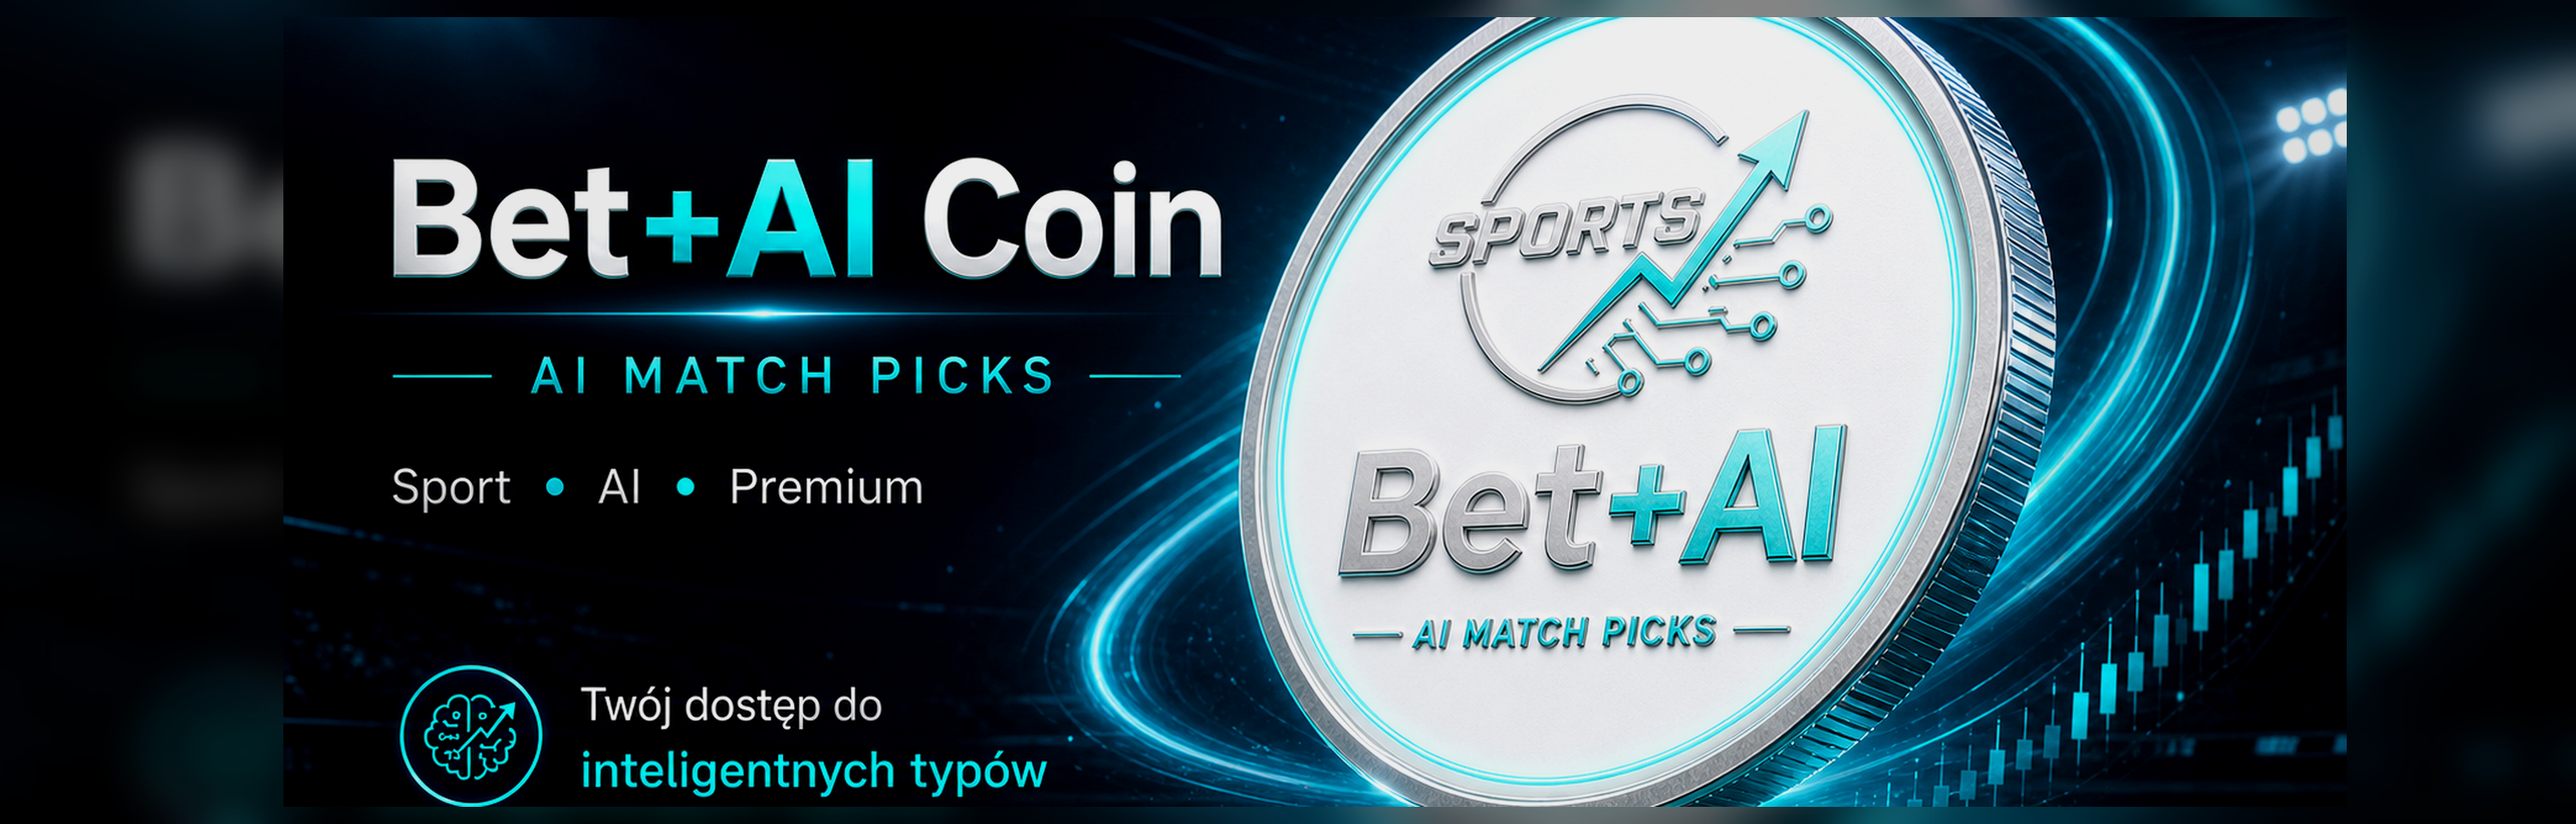
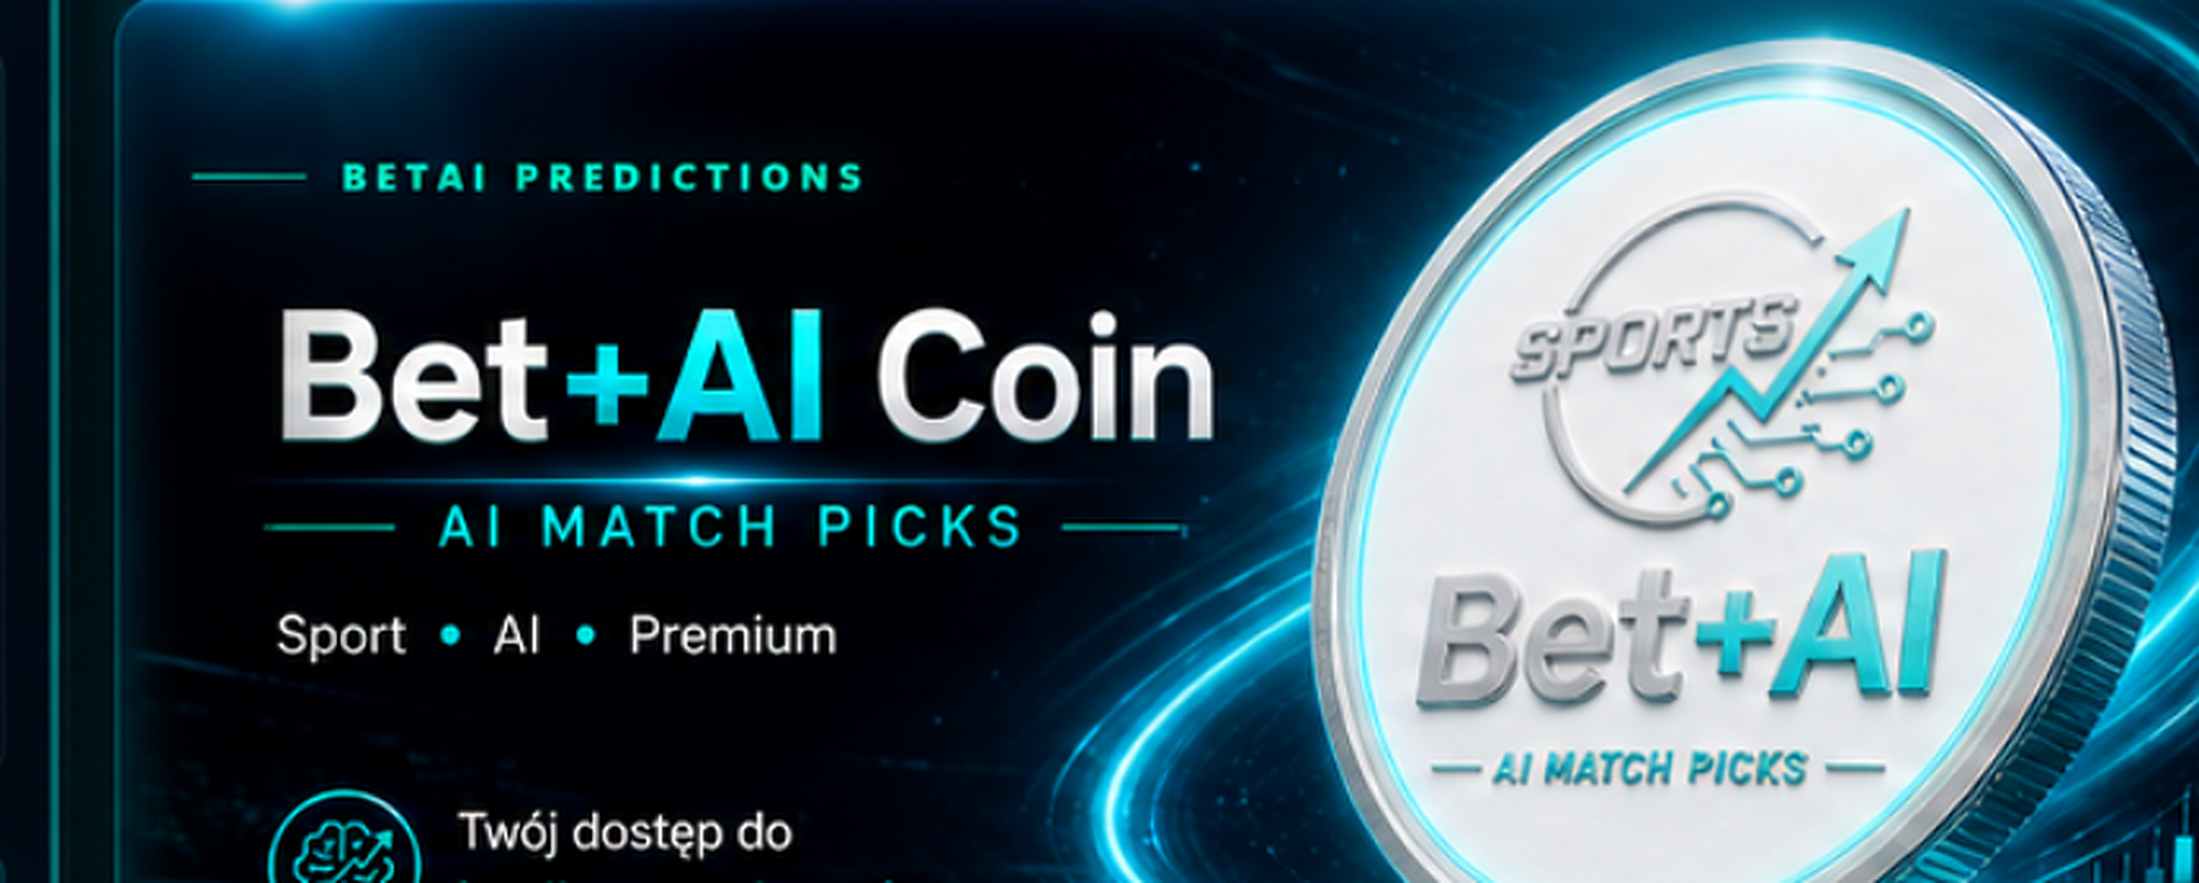
78

diff --git a/src/styles.css b/src/styles.css
@@ -9003,3 +9003,173 @@ html,body,#root{
   color: #10bce8 !important;
   font-weight: 900 !important;
 }
+
+
+/* WERSJA 411 — hero coin matches the user-approved screenshot exactly */
+@media (min-width: 1000px){
+  .betai-animated-hero.betai-hero-coin-active{
+    min-height: 334px !important;
+    padding: 18px 250px 18px 18px !important;
+  }
+
+  .betai-animated-hero.betai-hero-coin-active > .betai-hero-copy{
+    position:absolute !important;
+    left:18px !important;
+    top:18px !important;
+    right:250px !important;
+    bottom:18px !important;
+    width:auto !important;
+    max-width:none !important;
+    min-height:0 !important;
+    height:auto !important;
+    display:block !important;
+    z-index:3 !important;
+  }
+
+  .betai-animated-hero.betai-hero-coin-active .betai-hero-kicker{
+    display:none !important;
+  }
+
+  .betai-animated-hero.betai-hero-coin-active .betai-hero-rotator,
+  .betai-animated-hero.betai-hero-coin-active .betai-hero-panel.betai-hero-panel-coin,
+  .betai-animated-hero.betai-hero-coin-active .betai-hero-panel.betai-hero-panel-coin img{
+    position:absolute !important;
+    inset:0 !important;
+    width:100% !important;
+    height:100% !important;
+    min-height:0 !important;
+    max-height:none !important;
+    overflow:hidden !important;
+    border-radius:24px !important;
+  }
+
+  .betai-animated-hero.betai-hero-coin-active .betai-hero-panel.betai-hero-panel-coin img{
+    object-fit:cover !important;
+    object-position:left center !important;
+    border:0 !important;
+    box-shadow:0 18px 52px rgba(0,0,0,.30), inset 0 1px 0 rgba(255,255,255,.05) !important;
+    filter:brightness(1.01) saturate(1.02) !important;
+  }
+
+  .betai-animated-hero.betai-hero-coin-active > .betai-hero-stats{
+    position:absolute !important;
+    right:18px !important;
+    top:18px !important;
+    bottom:18px !important;
+    width:214px !important;
+    z-index:6 !important;
+  }
+}
+
+@media (min-width: 1000px) and (max-width:1180px){
+  .betai-animated-hero.betai-hero-coin-active{
+    padding-right:226px !important;
+  }
+  .betai-animated-hero.betai-hero-coin-active > .betai-hero-copy{
+    right:226px !important;
+  }
+  .betai-animated-hero.betai-hero-coin-active > .betai-hero-stats{
+    width:196px !important;
+  }
+}
+
+/* top middle wallet / tokens button blue like Wyloguj */
+.topbar .wallet-top-btn.wallet-stack-top,
+.wallet-top-btn.wallet-stack-top{
+  background:linear-gradient(135deg,#18f0c8,#10bce8) !important;
+  border:1px solid rgba(24,240,200,.32) !important;
+  color:#04121a !important;
+  box-shadow:0 10px 22px rgba(20,224,201,.20) !important;
+}
+.topbar .wallet-top-btn.wallet-stack-top strong,
+.topbar .wallet-top-btn.wallet-stack-top small,
+.wallet-top-btn.wallet-stack-top strong,
+.wallet-top-btn.wallet-stack-top small{
+  color:#04121a !important;
+}
+.wallet-row.wallet-row-tokens span,
+.wallet-row.wallet-row-tokens b{
+  color:#10bce8 !important;
+  font-weight:900 !important;
+}
+
+
+/* WERSJA 412 — final hero coin based on user-approved screenshot */
+@media (min-width: 1000px){
+  .betai-animated-hero.betai-hero-coin-active{
+    min-height: 334px !important;
+    padding: 18px 250px 18px 18px !important;
+  }
+  .betai-animated-hero.betai-hero-coin-active > .betai-hero-copy{
+    position: absolute !important;
+    left: 18px !important;
+    top: 18px !important;
+    right: 250px !important;
+    bottom: 18px !important;
+    width: auto !important;
+    max-width: none !important;
+    min-height: 0 !important;
+    height: auto !important;
+    z-index: 3 !important;
+  }
+  .betai-animated-hero.betai-hero-coin-active .betai-hero-kicker{
+    display: none !important;
+  }
+  .betai-animated-hero.betai-hero-coin-active .betai-hero-rotator,
+  .betai-animated-hero.betai-hero-coin-active .betai-hero-panel.betai-hero-panel-coin,
+  .betai-animated-hero.betai-hero-coin-active .betai-hero-panel.betai-hero-panel-coin img{
+    position: absolute !important;
+    inset: 0 !important;
+    width: 100% !important;
+    height: 100% !important;
+    min-height: 0 !important;
+    max-height: none !important;
+    border-radius: 24px !important;
+    overflow: hidden !important;
+  }
+  .betai-animated-hero.betai-hero-coin-active .betai-hero-panel.betai-hero-panel-coin img{
+    object-fit: cover !important;
+    object-position: left center !important;
+    border: 0 !important;
+    box-shadow: 0 18px 50px rgba(0,0,0,.30), inset 0 1px 0 rgba(255,255,255,.05) !important;
+    filter: brightness(1.01) saturate(1.02) !important;
+  }
+  .betai-animated-hero.betai-hero-coin-active > .betai-hero-stats{
+    position: absolute !important;
+    right: 18px !important;
+    top: 18px !important;
+    bottom: 18px !important;
+    width: 214px !important;
+    z-index: 6 !important;
+  }
+}
+@media (min-width: 1000px) and (max-width: 1180px){
+  .betai-animated-hero.betai-hero-coin-active{
+    padding-right: 226px !important;
+  }
+  .betai-animated-hero.betai-hero-coin-active > .betai-hero-copy{
+    right: 226px !important;
+  }
+  .betai-animated-hero.betai-hero-coin-active > .betai-hero-stats{
+    width: 196px !important;
+  }
+}
+/* top wallet button blue like Wyloguj */
+.topbar .wallet-top-btn.wallet-stack-top,
+.wallet-top-btn.wallet-stack-top{
+  background: linear-gradient(135deg,#18f0c8,#10bce8) !important;
+  border: 1px solid rgba(24,240,200,.32) !important;
+  color: #04121a !important;
+  box-shadow: 0 10px 22px rgba(20,224,201,.20) !important;
+}
+.topbar .wallet-top-btn.wallet-stack-top strong,
+.topbar .wallet-top-btn.wallet-stack-top small,
+.wallet-top-btn.wallet-stack-top strong,
+.wallet-top-btn.wallet-stack-top small{
+  color: #04121a !important;
+}
+.wallet-row.wallet-row-tokens span,
+.wallet-row.wallet-row-tokens b{
+  color: #10bce8 !important;
+  font-weight: 900 !important;
+}

diff --git a/dist/assets/index-Ck5lrAOd.css b/dist/assets/index-Ck5lrAOd.css
@@ -121,3 +121,173 @@
   color: #10bce8 !important;
   font-weight: 900 !important;
 }
+
+
+/* WERSJA 411 — hero coin matches the user-approved screenshot exactly */
+@media (min-width: 1000px){
+  .betai-animated-hero.betai-hero-coin-active{
+    min-height: 334px !important;
+    padding: 18px 250px 18px 18px !important;
+  }
+
+  .betai-animated-hero.betai-hero-coin-active > .betai-hero-copy{
+    position:absolute !important;
+    left:18px !important;
+    top:18px !important;
+    right:250px !important;
+    bottom:18px !important;
+    width:auto !important;
+    max-width:none !important;
+    min-height:0 !important;
+    height:auto !important;
+    display:block !important;
+    z-index:3 !important;
+  }
+
+  .betai-animated-hero.betai-hero-coin-active .betai-hero-kicker{
+    display:none !important;
+  }
+
+  .betai-animated-hero.betai-hero-coin-active .betai-hero-rotator,
+  .betai-animated-hero.betai-hero-coin-active .betai-hero-panel.betai-hero-panel-coin,
+  .betai-animated-hero.betai-hero-coin-active .betai-hero-panel.betai-hero-panel-coin img{
+    position:absolute !important;
+    inset:0 !important;
+    width:100% !important;
+    height:100% !important;
+    min-height:0 !important;
+    max-height:none !important;
+    overflow:hidden !important;
+    border-radius:24px !important;
+  }
+
+  .betai-animated-hero.betai-hero-coin-active .betai-hero-panel.betai-hero-panel-coin img{
+    object-fit:cover !important;
+    object-position:left center !important;
+    border:0 !important;
+    box-shadow:0 18px 52px rgba(0,0,0,.30), inset 0 1px 0 rgba(255,255,255,.05) !important;
+    filter:brightness(1.01) saturate(1.02) !important;
+  }
+
+  .betai-animated-hero.betai-hero-coin-active > .betai-hero-stats{
+    position:absolute !important;
+    right:18px !important;
+    top:18px !important;
+    bottom:18px !important;
+    width:214px !important;
+    z-index:6 !important;
+  }
+}
+
+@media (min-width: 1000px) and (max-width:1180px){
+  .betai-animated-hero.betai-hero-coin-active{
+    padding-right:226px !important;
+  }
+  .betai-animated-hero.betai-hero-coin-active > .betai-hero-copy{
+    right:226px !important;
+  }
+  .betai-animated-hero.betai-hero-coin-active > .betai-hero-stats{
+    width:196px !important;
+  }
+}
+
+/* top middle wallet / tokens button blue like Wyloguj */
+.topbar .wallet-top-btn.wallet-stack-top,
+.wallet-top-btn.wallet-stack-top{
+  background:linear-gradient(135deg,#18f0c8,#10bce8) !important;
+  border:1px solid rgba(24,240,200,.32) !important;
+  color:#04121a !important;
+  box-shadow:0 10px 22px rgba(20,224,201,.20) !important;
+}
+.topbar .wallet-top-btn.wallet-stack-top strong,
+.topbar .wallet-top-btn.wallet-stack-top small,
+.wallet-top-btn.wallet-stack-top strong,
+.wallet-top-btn.wallet-stack-top small{
+  color:#04121a !important;
+}
+.wallet-row.wallet-row-tokens span,
+.wallet-row.wallet-row-tokens b{
+  color:#10bce8 !important;
+  font-weight:900 !important;
+}
+
+
+/* WERSJA 412 — final hero coin based on user-approved screenshot */
+@media (min-width: 1000px){
+  .betai-animated-hero.betai-hero-coin-active{
+    min-height: 334px !important;
+    padding: 18px 250px 18px 18px !important;
+  }
+  .betai-animated-hero.betai-hero-coin-active > .betai-hero-copy{
+    position: absolute !important;
+    left: 18px !important;
+    top: 18px !important;
+    right: 250px !important;
+    bottom: 18px !important;
+    width: auto !important;
+    max-width: none !important;
+    min-height: 0 !important;
+    height: auto !important;
+    z-index: 3 !important;
+  }
+  .betai-animated-hero.betai-hero-coin-active .betai-hero-kicker{
+    display: none !important;
+  }
+  .betai-animated-hero.betai-hero-coin-active .betai-hero-rotator,
+  .betai-animated-hero.betai-hero-coin-active .betai-hero-panel.betai-hero-panel-coin,
+  .betai-animated-hero.betai-hero-coin-active .betai-hero-panel.betai-hero-panel-coin img{
+    position: absolute !important;
+    inset: 0 !important;
+    width: 100% !important;
+    height: 100% !important;
+    min-height: 0 !important;
+    max-height: none !important;
+    border-radius: 24px !important;
+    overflow: hidden !important;
+  }
+  .betai-animated-hero.betai-hero-coin-active .betai-hero-panel.betai-hero-panel-coin img{
+    object-fit: cover !important;
+    object-position: left center !important;
+    border: 0 !important;
+    box-shadow: 0 18px 50px rgba(0,0,0,.30), inset 0 1px 0 rgba(255,255,255,.05) !important;
+    filter: brightness(1.01) saturate(1.02) !important;
+  }
+  .betai-animated-hero.betai-hero-coin-active > .betai-hero-stats{
+    position: absolute !important;
+    right: 18px !important;
+    top: 18px !important;
+    bottom: 18px !important;
+    width: 214px !important;
+    z-index: 6 !important;
+  }
+}
+@media (min-width: 1000px) and (max-width: 1180px){
+  .betai-animated-hero.betai-hero-coin-active{
+    padding-right: 226px !important;
+  }
+  .betai-animated-hero.betai-hero-coin-active > .betai-hero-copy{
+    right: 226px !important;
+  }
+  .betai-animated-hero.betai-hero-coin-active > .betai-hero-stats{
+    width: 196px !important;
+  }
+}
+/* top wallet button blue like Wyloguj */
+.topbar .wallet-top-btn.wallet-stack-top,
+.wallet-top-btn.wallet-stack-top{
+  background: linear-gradient(135deg,#18f0c8,#10bce8) !important;
+  border: 1px solid rgba(24,240,200,.32) !important;
+  color: #04121a !important;
+  box-shadow: 0 10px 22px rgba(20,224,201,.20) !important;
+}
+.topbar .wallet-top-btn.wallet-stack-top strong,
+.topbar .wallet-top-btn.wallet-stack-top small,
+.wallet-top-btn.wallet-stack-top strong,
+.wallet-top-btn.wallet-stack-top small{
+  color: #04121a !important;
+}
+.wallet-row.wallet-row-tokens span,
+.wallet-row.wallet-row-tokens b{
+  color: #10bce8 !important;
+  font-weight: 900 !important;
+}
